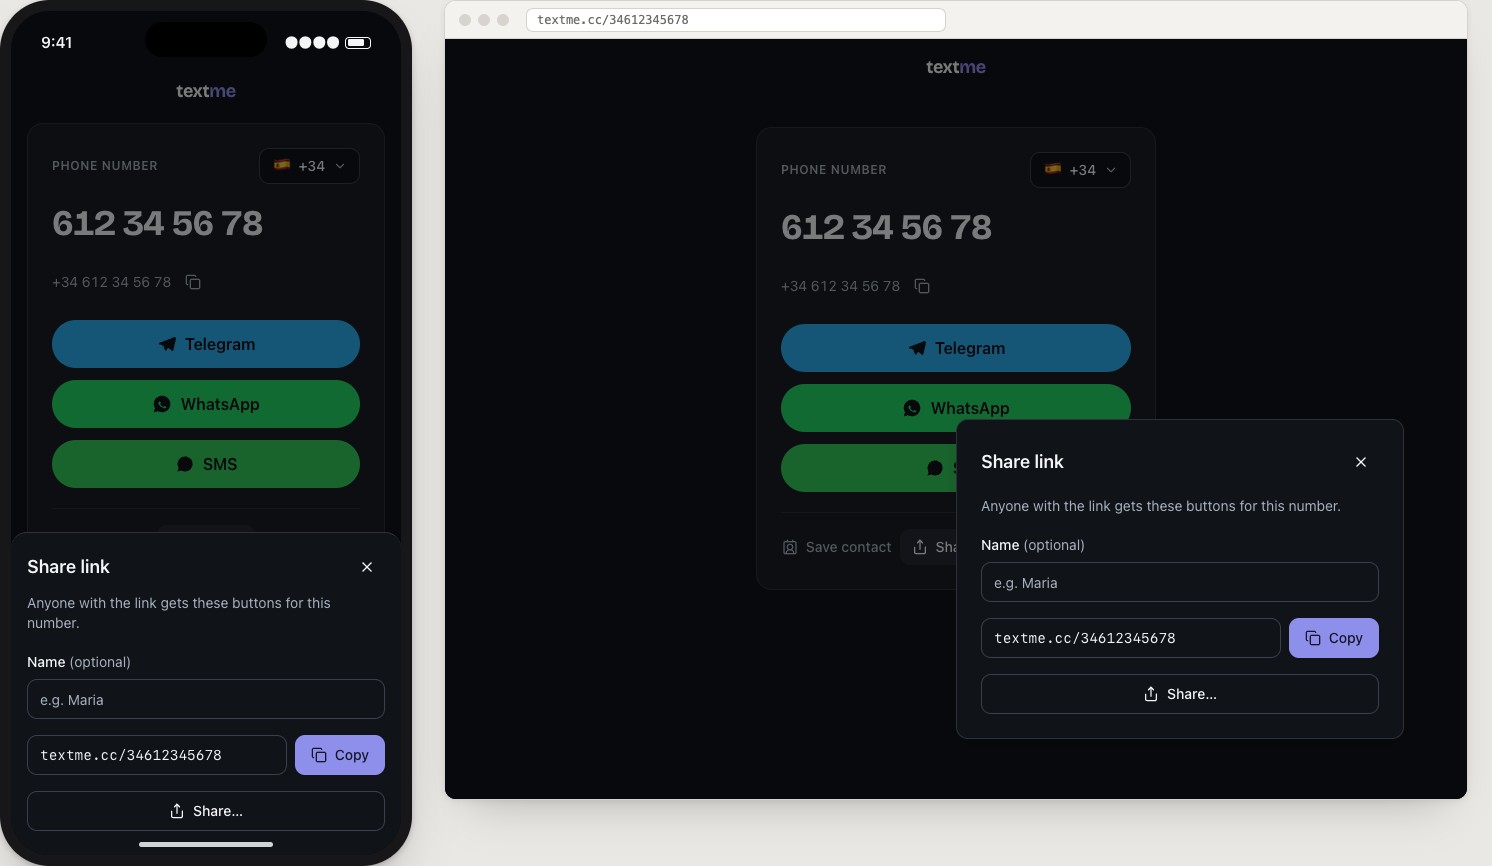
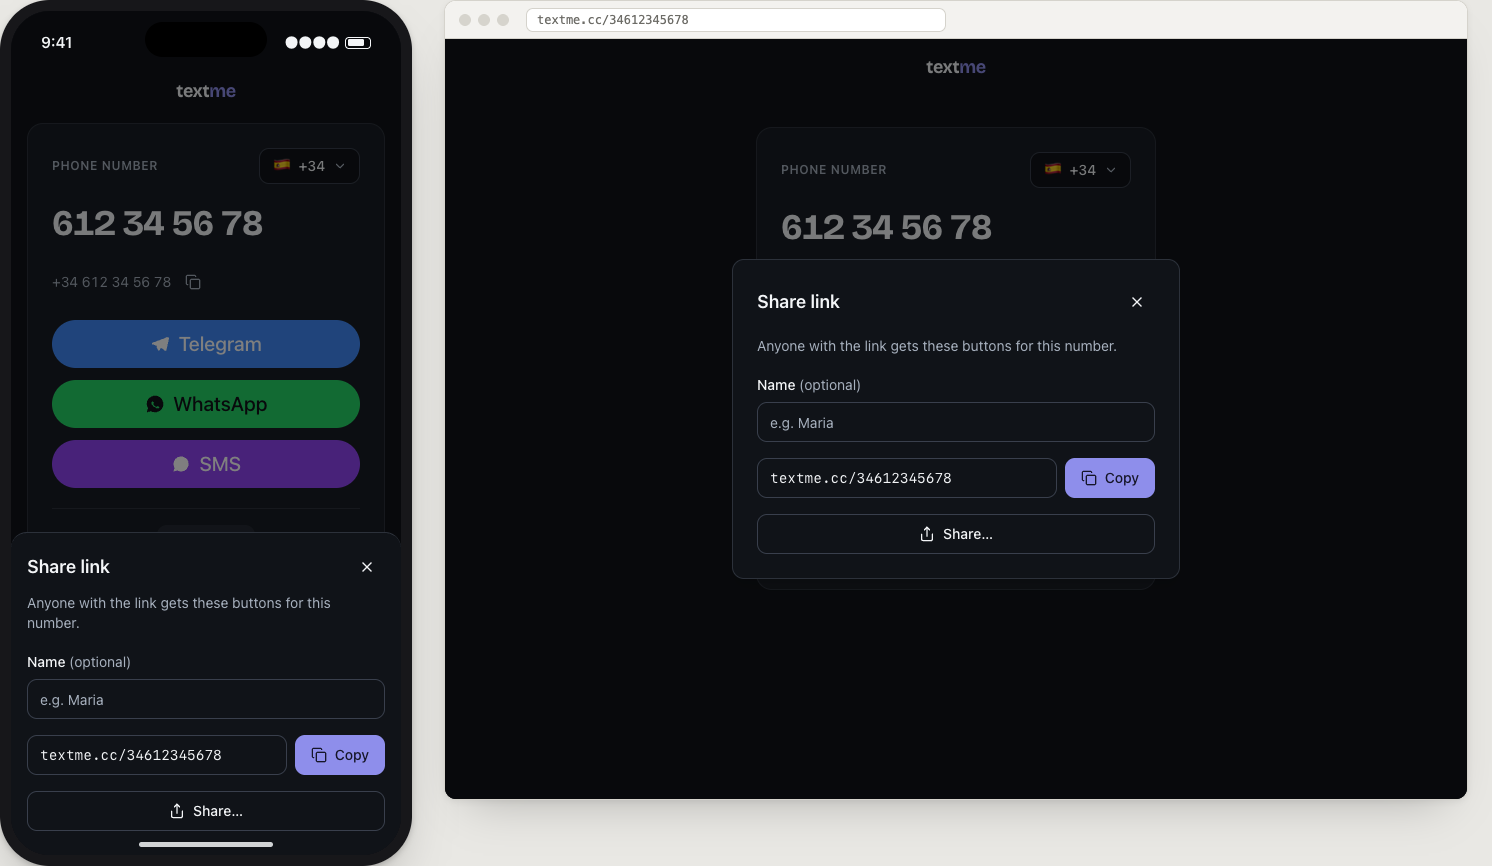
Keep deck overlays out of the rise animation so dialogs center
The .app > * animation ended on transform: none, which overrode the
dialog's -translate-x/y-1/2 and pinned it to the bottom-right quadrant.

diff --git a/mockups/card.html b/mockups/card.html
@@ -99,7 +99,8 @@
 					opacity: 0;
 				}
 			}
-			.app > * {
+			.app > header,
+			.app > main {
 				animation: rise 0.4s cubic-bezier(0.16, 1, 0.3, 1) both;
 			}
 			@keyframes rise {
